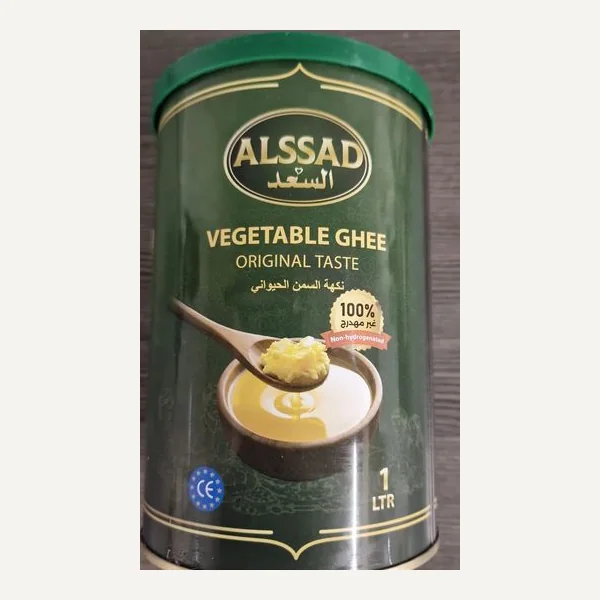
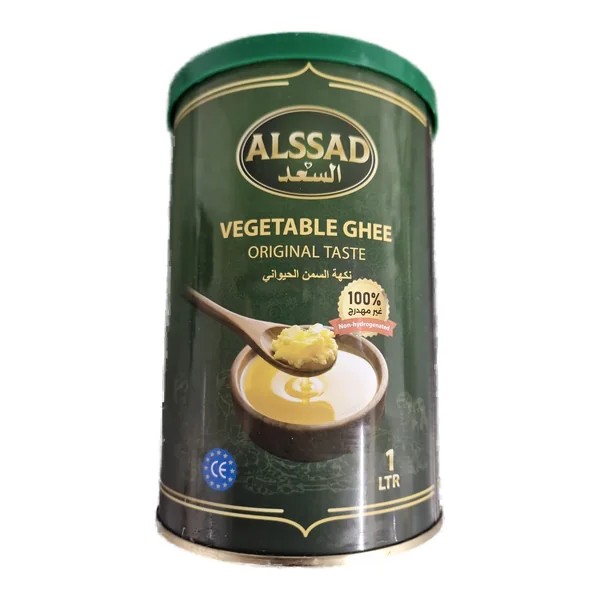
Add five products with backgrounds removed; re-cut three earlier photos (#22)
- Backgrounds removed from the supplied shelf photos so products sit on
  clean white like the rest of the catalog
- New products: روغن حیوانی خانم ۵۰۰ گرم / Khanum Pure Ghee 500 g,
  غریبه شهیه / Shahia Ghorayeba, شکلات کنفت ۵۰۰ گرم / Konfekt-
  Schokolade 500 g, کلوچه نادری با مغز گردو / Naderi Kekse mit
  Walnussfüllung, سوهان تخت خودکار / Khodkar Sohan Takht
- Prices read from the shop's own price stickers where visible:
  Ghorayeba 7.50, Konfekt 4.50, Sohan Takht 8.50 EUR
- Alssad ghee 1L/2L and Amu Food herbs re-processed: the two ghee tins
  are now cut out, the Amu Food box is cropped tight since segmentation
  kept dropping its black panel
- All new imagery stored as WebP per the project convention

Claude-Session: https://claude.ai/code/session_011pFrFbSr3ZNPMtLUyhGEPN

Changed region(s): [[0.21, 0.03, 0.78, 0.96]]

diff --git a/src/lib/data.ts b/src/lib/data.ts
@@ -168,6 +168,7 @@ export const PRODUCTS: Product[] = [
   { id: 116, fa: 'روغن حیوانی', de: 'Butterschmalz', catId: 14, catFa: 'روغن', catDe: 'Speiseöle', price: undefined, bFa: '', bDe: '', emoji: '', imgBg: '#fff', img: '/images/categories/oil.webp' },
   { id: 255, fa: 'روغن نباتی السعد ۱ لیتر', de: 'Alssad Pflanzen-Ghee 1 L', catId: 14, catFa: 'روغن', catDe: 'Speiseöle', price: undefined, bFa: '', bDe: '', emoji: '', imgBg: '#fff', img: '/images/products/ghee-alssad-1l.webp' },
   { id: 256, fa: 'روغن نباتی السعد ۲ لیتر', de: 'Alssad Pflanzen-Ghee 2 L', catId: 14, catFa: 'روغن', catDe: 'Speiseöle', price: undefined, bFa: '', bDe: '', emoji: '', imgBg: '#fff', img: '/images/products/ghee-alssad-2l.webp' },
+  { id: 258, fa: 'روغن حیوانی خانم ۵۰۰ گرم', de: 'Khanum Pure Ghee 500 g', catId: 14, catFa: 'روغن', catDe: 'Speiseöle', price: undefined, bFa: '', bDe: '', emoji: '', imgBg: '#fff', img: '/images/products/ghee-khanum-500g.webp' },
   { id: 121, fa: 'کباب لقمه', de: 'Koobideh Kabab', catId: 15, catFa: 'گوشت و پروتئین حلال', catDe: 'Halal Fleisch & Protein', price: undefined, bFa: '', bDe: '', emoji: '', imgBg: '#fff', img: '/images/categories/meat.webp' },
   { id: 132, fa: 'بادمجان کبابی', de: 'Gegrillte Auberginen', catId: 16, catFa: 'غذاهای آماده', catDe: 'Fertiggerichte', price: undefined, bFa: '', bDe: '', emoji: '', imgBg: '#fff', img: '/images/categories/cans.webp' },
   { id: 144, fa: 'ویفر', de: 'Waffeln', catId: 17, catFa: 'بیسکویت و شیرینی', catDe: 'Kekse & Gebäck', price: undefined, bFa: '', bDe: '', emoji: '', imgBg: '#fff', img: '/images/categories/biscuits.webp' },
@@ -197,6 +198,7 @@ export const PRODUCTS: Product[] = [
   { id: 145, fa: 'کیک یزدی', de: 'Yazdi-Kuchen', catId: 17, catFa: 'بیسکویت و شیرینی', catDe: 'Kekse & Gebäck', price: undefined, bFa: '', bDe: '', emoji: '', imgBg: '#fff', img: '/images/categories/biscuits.webp' },
   { id: 153, fa: 'شکلات ایرانی', de: 'Iranische Schokolade', catId: 18, catFa: 'شکلات', catDe: 'Schokolade', price: undefined, bFa: '', bDe: '', emoji: '', imgBg: '#fff', img: '/images/categories/chocolate.webp' },
   { id: 252, fa: 'شکلات رنگارنگ مینو', de: 'Minoo Rangarang Toffee', catId: 18, catFa: 'شکلات', catDe: 'Schokolade', price: undefined, bFa: '', bDe: '', emoji: '', imgBg: '#fff', img: '/images/products/rangarang.webp' },
+  { id: 260, fa: 'شکلات کنفت ۵۰۰ گرم', de: 'Konfekt-Schokolade 500 g', catId: 18, catFa: 'شکلات', catDe: 'Schokolade', price: 4.50, bFa: '', bDe: '', emoji: '', imgBg: '#fff', img: '/images/products/konfekt-choc.webp' },
   { id: 159, fa: 'گردو', de: 'Walnüsse', catId: 19, catFa: 'تنقلات و آجیل', catDe: 'Snacks & Nüsse', price: undefined, bFa: '', bDe: '', emoji: '', imgBg: '#fff', img: '/images/products/walnuts.webp' },
   { id: 171, fa: 'باقلوا', de: 'Baklava', catId: 20, catFa: 'شیرینی سنتی', catDe: 'Traditionelle Süßigkeiten', price: undefined, bFa: '', bDe: '', emoji: '', imgBg: '#fff', img: '/images/categories/sweets.webp' },
   { id: 181, fa: 'نان تست', de: 'Toastbrot', catId: 21, catFa: 'نان', catDe: 'Brot', price: 2.99, bFa: '', bDe: '', emoji: '', imgBg: '#fff', img: '/images/products/bread.webp' },
@@ -242,6 +244,7 @@ export const PRODUCTS: Product[] = [
   { id: 135, fa: 'دلمه', de: 'Dolma (Gefüllte Weinblätter)', catId: 16, catFa: 'غذاهای آماده', catDe: 'Fertiggerichte', price: undefined, bFa: '', bDe: '', emoji: '', imgBg: '#fff', img: '/images/categories/cans.webp' },
   { id: 147, fa: 'قطاب', de: 'Ghotab', catId: 17, catFa: 'بیسکویت و شیرینی', catDe: 'Kekse & Gebäck', price: undefined, bFa: '', bDe: '', emoji: '', imgBg: '#fff', img: '/images/categories/biscuits.webp' },
   { id: 253, fa: 'بیسکویت فرخنده کنجد و شوید', de: 'Farkhondeh Kekse (Sesam & Dill)', catId: 17, catFa: 'بیسکویت و شیرینی', catDe: 'Kekse & Gebäck', price: undefined, bFa: '', bDe: '', emoji: '', imgBg: '#fff', img: '/images/products/biscuit-farkhondeh.webp' },
+  { id: 261, fa: 'کلوچه نادری با مغز گردو', de: 'Naderi Kekse mit Walnussfüllung', catId: 17, catFa: 'بیسکویت و شیرینی', catDe: 'Kekse & Gebäck', price: undefined, bFa: '', bDe: '', emoji: '', imgBg: '#fff', img: '/images/products/naderi-walnut.webp' },
   { id: 161, fa: 'کشمش', de: 'Rosinen', catId: 19, catFa: 'تنقلات و آجیل', catDe: 'Snacks & Nüsse', price: undefined, bFa: '', bDe: '', emoji: '', imgBg: '#fff', img: '/images/categories/snacks.webp' },
   { id: 173, fa: 'مسقطی', de: 'Masghati', catId: 20, catFa: 'شیرینی سنتی', catDe: 'Traditionelle Süßigkeiten', price: undefined, bFa: '', bDe: '', emoji: '', imgBg: '#fff', img: '/images/categories/sweets.webp' },
   { id: 190, fa: 'اسفناج', de: 'Spinat', catId: 22, catFa: 'سبزیجات تازه', catDe: 'Frisches Gemüse', price: undefined, bFa: '', bDe: '', emoji: '', imgBg: '#fff', img: '/images/categories/broccoli.webp' },
@@ -277,6 +280,8 @@ export const PRODUCTS: Product[] = [
   { id: 137, fa: 'خورش قیمه', de: 'Gheimeh Eintopf', catId: 16, catFa: 'غذاهای آماده', catDe: 'Fertiggerichte', price: undefined, bFa: '', bDe: '', emoji: '', imgBg: '#fff', img: '/images/categories/cans.webp' },
   { id: 163, fa: 'برگه زردآلو', de: 'Getrocknete Aprikosen', catId: 19, catFa: 'تنقلات و آجیل', catDe: 'Snacks & Nüsse', price: undefined, bFa: '', bDe: '', emoji: '', imgBg: '#fff', img: '/images/categories/snacks.webp' },
   { id: 175, fa: 'راحتالحلقوم', de: 'Lokum', catId: 20, catFa: 'شیرینی سنتی', catDe: 'Traditionelle Süßigkeiten', price: undefined, bFa: '', bDe: '', emoji: '', imgBg: '#fff', img: '/images/categories/sweets.webp' },
+  { id: 259, fa: 'غریبه شهیه با وانیل و بادام', de: 'Shahia Ghorayeba (Vanille & Mandeln)', catId: 20, catFa: 'شیرینی سنتی', catDe: 'Traditionelle Süßigkeiten', price: 7.50, bFa: '', bDe: '', emoji: '', imgBg: '#fff', img: '/images/products/ghorayeba-shahia.webp' },
+  { id: 262, fa: 'سوهان تخت خودکار', de: 'Khodkar Sohan Takht', catId: 20, catFa: 'شیرینی سنتی', catDe: 'Traditionelle Süßigkeiten', price: 8.50, bFa: '', bDe: '', emoji: '', imgBg: '#fff', img: '/images/products/sohan-khodkar.webp' },
   { id: 192, fa: 'گوجهفرنگی', de: 'Tomaten', catId: 22, catFa: 'سبزیجات تازه', catDe: 'Frisches Gemüse', price: 2.49, bFa: '', bDe: '', emoji: '', imgBg: '#fff', img: '/images/products/tomatoes.webp' },
   { id: 205, fa: 'کیوی', de: 'Kiwi', catId: 23, catFa: 'میوه', catDe: 'Frisches Obst', price: undefined, bFa: '', bDe: '', emoji: '', imgBg: '#fff', img: '/images/products/apples.webp' },
   { id: 215, fa: 'خمیردندان', de: 'Zahnpasta', catId: 24, catFa: 'شوینده و بهداشتی', catDe: 'Reinigung & Hygiene', price: undefined, bFa: '', bDe: '', emoji: '', imgBg: '#fff', img: '/images/categories/detergent.webp' },
